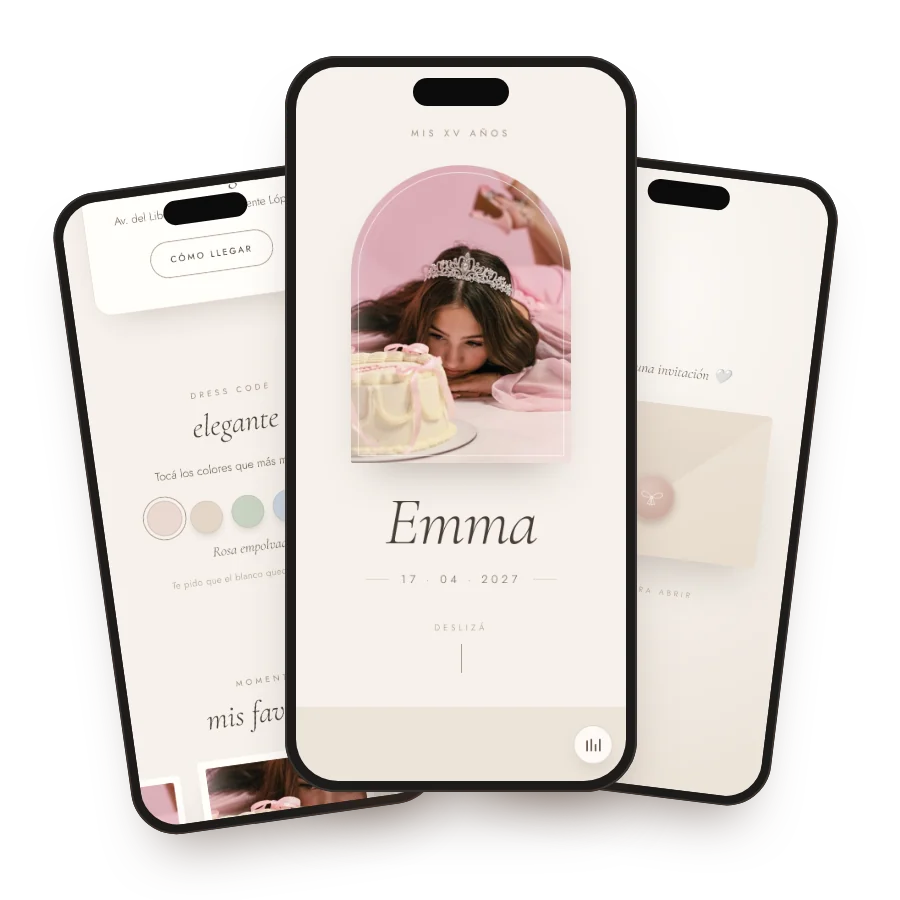
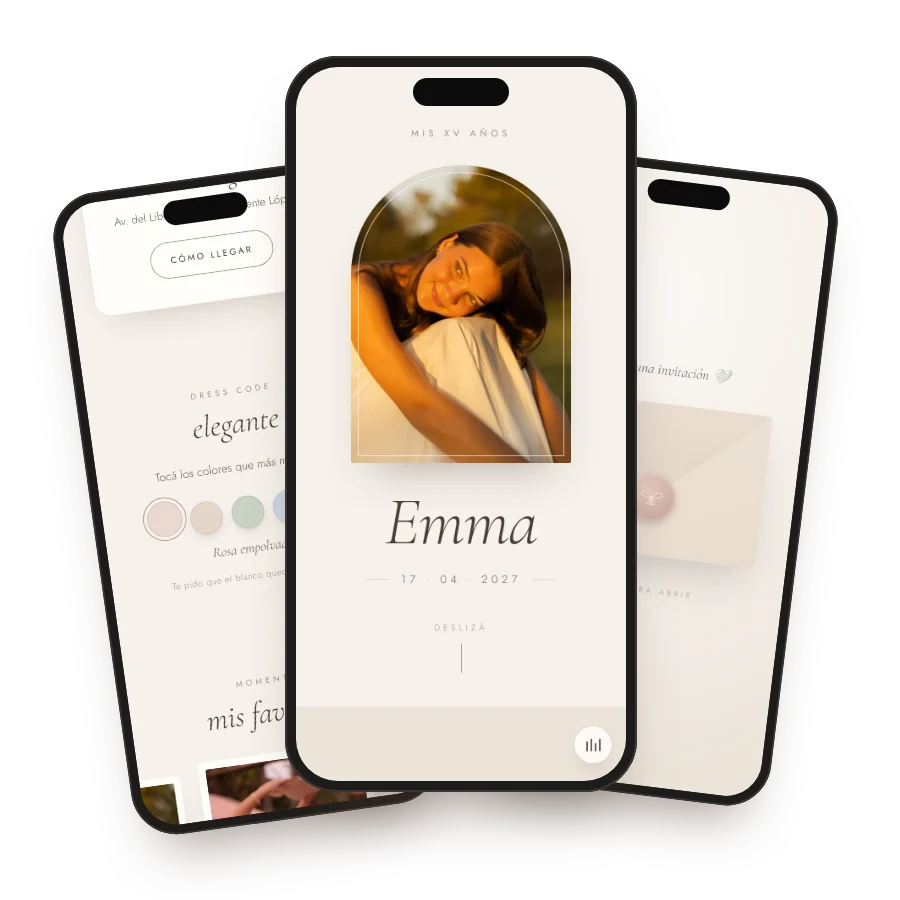
Rosa v2 HD + Emma fotos

diff --git a/plantilla_15_soft.html b/plantilla_15_soft.html
@@ -7,7 +7,7 @@
 <meta name="description" content="Estás invitado a mis XV 🎀">
 <meta property="og:title" content="Mis XV · Emma 🎀">
 <meta property="og:description" content="Abrí la invitación y confirmá tu asistencia.">
-<meta property="og:image" content="https://celebrainvitaciones.com/images/stories-15/portada.jpg">
+<meta property="og:image" content="https://celebrainvitaciones.com/images/emma-15/portada.jpg">
 <meta name="theme-color" content="#F6F1EB">
 <link rel="icon" type="image/png" href="favicon.png"><link rel="apple-touch-icon" href="favicon.png">
 <link rel="preconnect" href="https://fonts.googleapis.com">
@@ -227,11 +227,10 @@ const CONFIG = {
   maxAcompanantes: 4,
   confirmarHasta: "1 de abril",
 
-  fotoPortada: "images/stories-15/portada.jpg",
+  fotoPortada: "images/emma-15/portada.jpg",
   fotos: [
-    { src: "images/stories-15/momento-tiara.jpg", texto: "soñando con este día" },
-    { src: "images/stories-15/momento-torta.jpg", texto: "quince 🤍" },
-    { src: "images/stories-15/portada.jpg", texto: "te espero" }
+    { src: "images/emma-15/momento-1.jpg", texto: "soñando con este día" },
+    { src: "images/emma-15/momento-2.jpg", texto: "quince 🤍" }
   ],
 
   celebraWhatsapp: "5491136218114",
